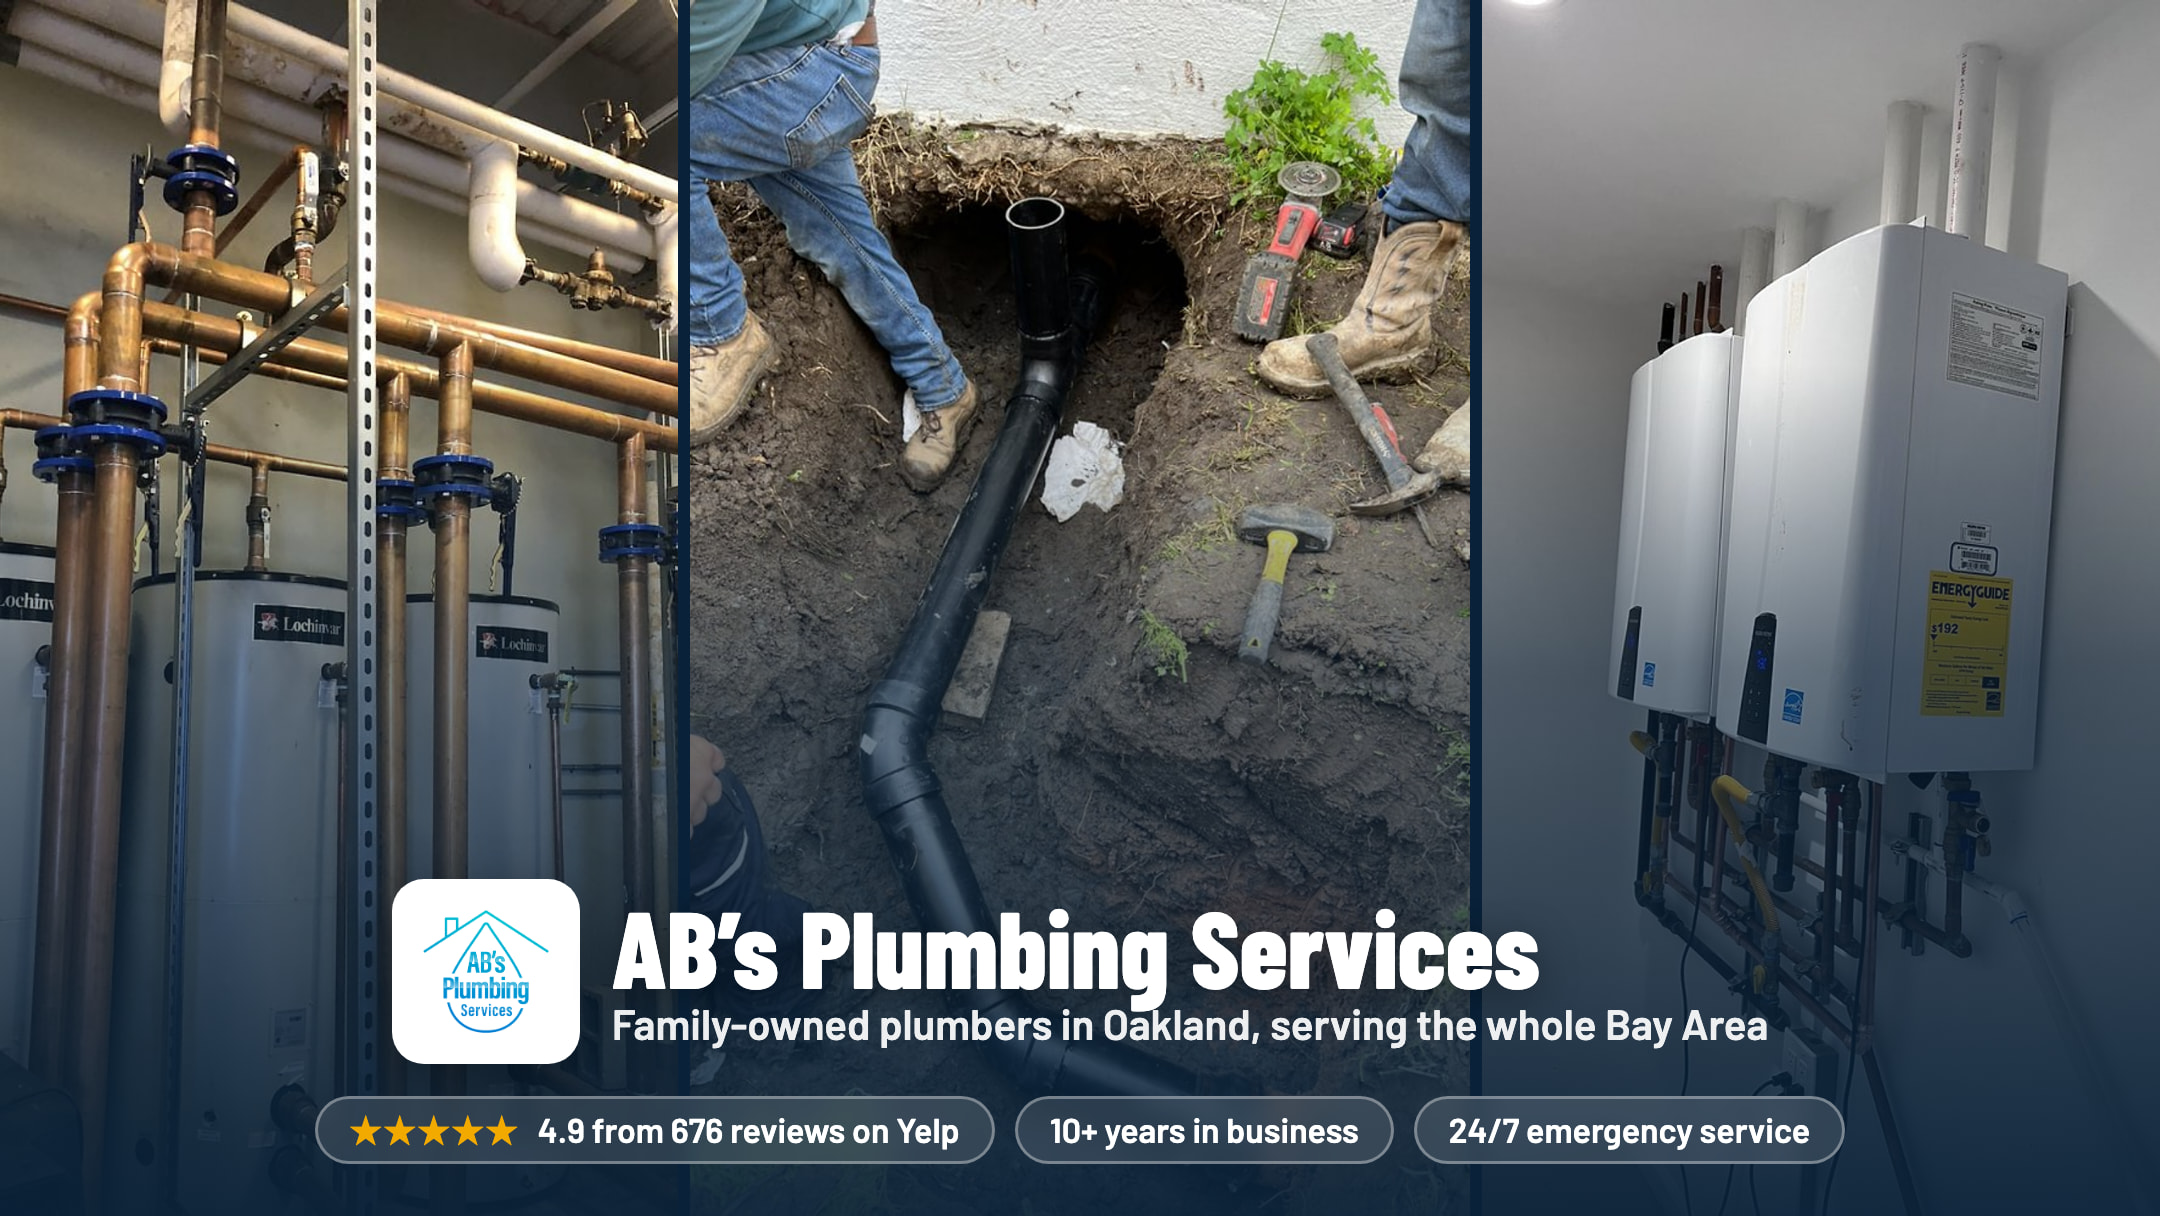
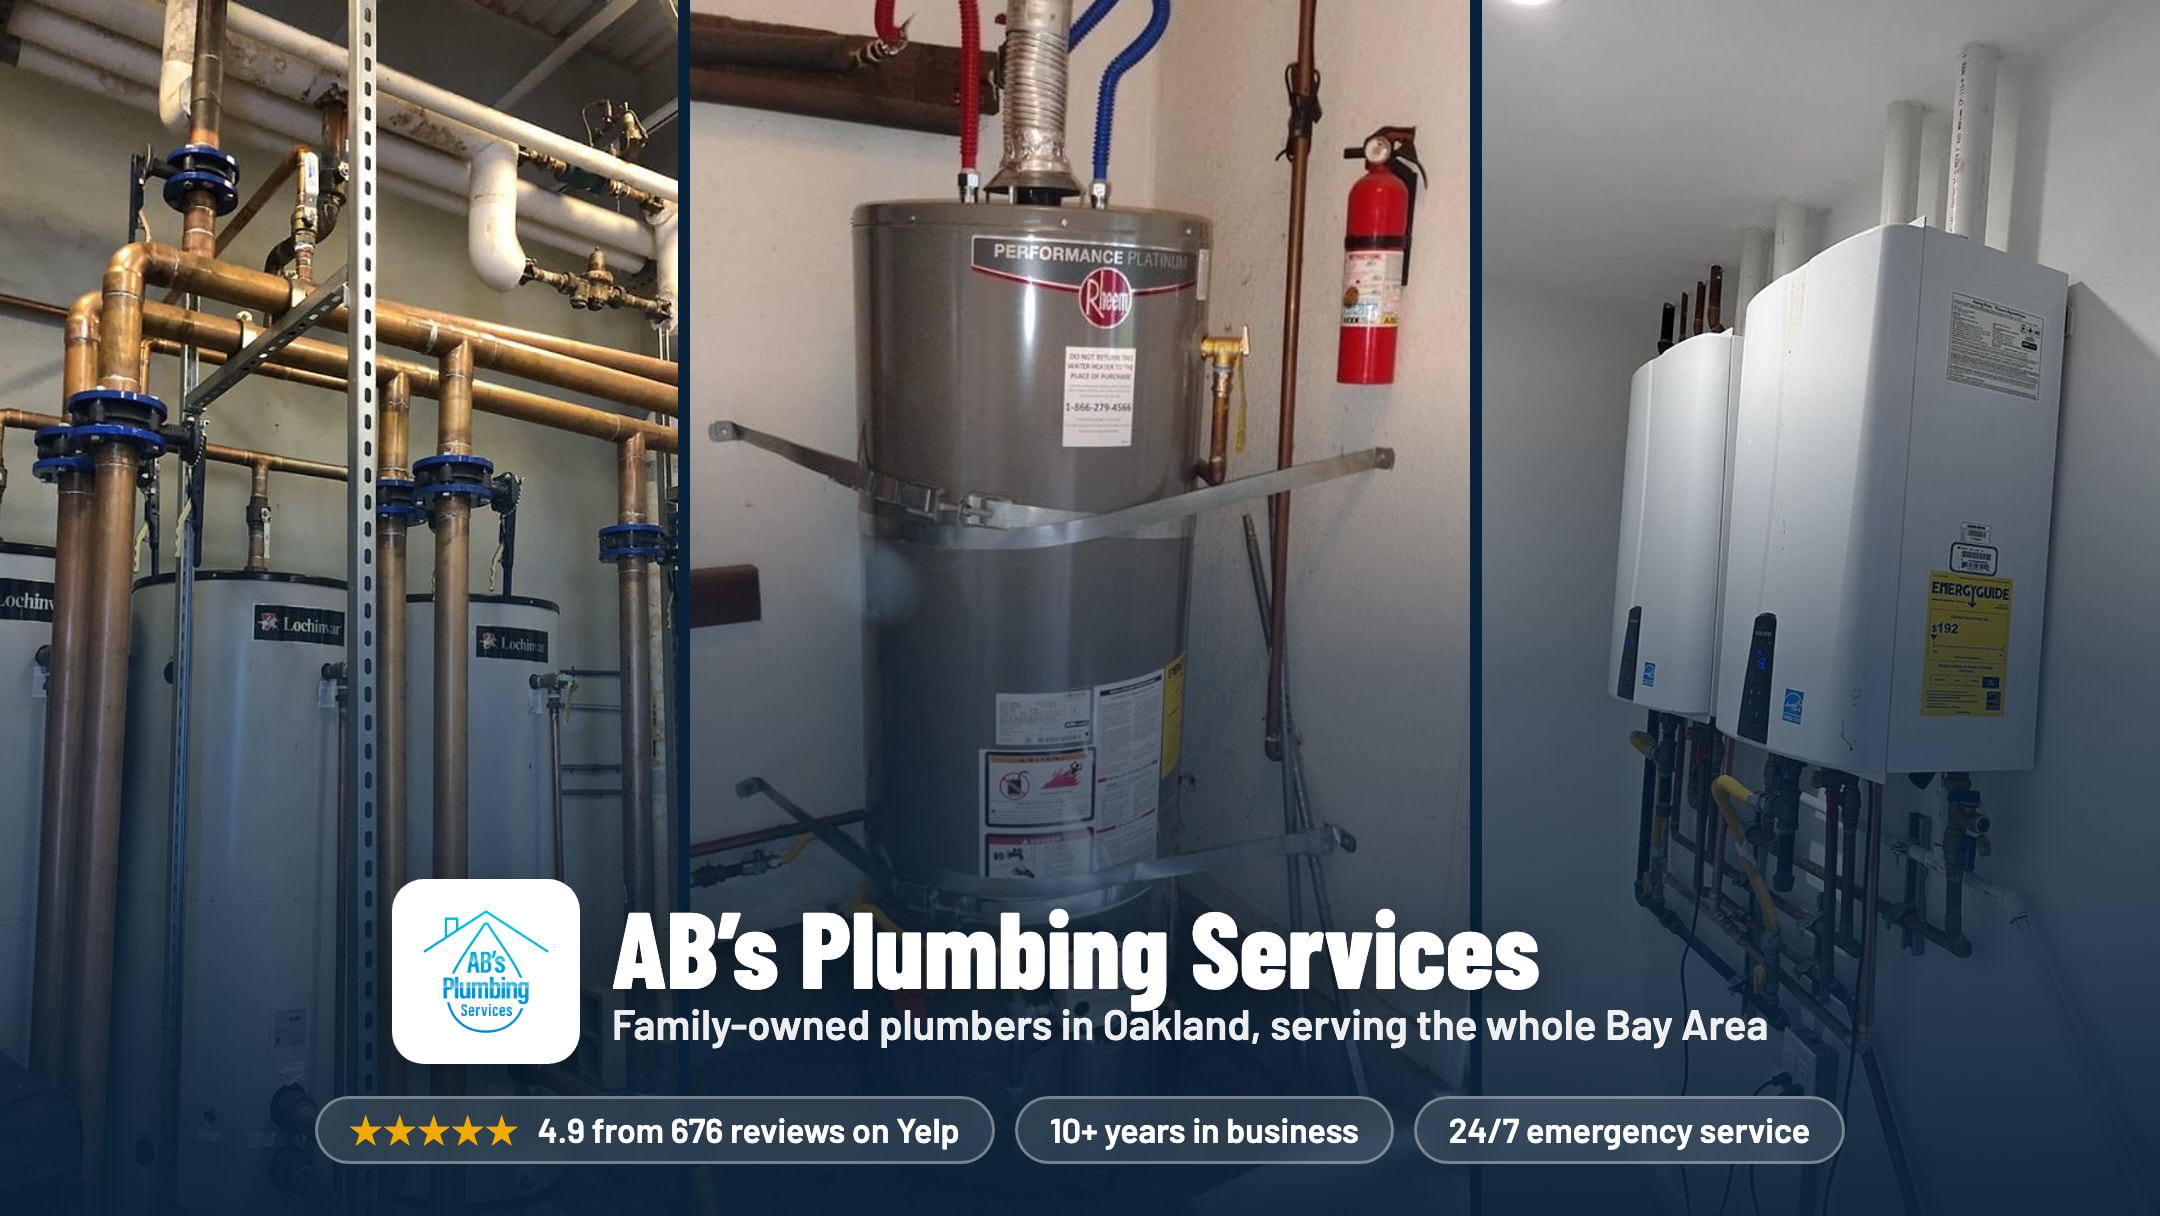
GBP cover: Rheem water heater install in the center panel
Claude-Session: https://claude.ai/code/session_011v2MkKNfKAuU7ZPEyXpDVC

diff --git a/brand-assets/google-business/src/cover.html b/brand-assets/google-business/src/cover.html
@@ -23,7 +23,7 @@
 <body>
   <div class="grid">
     <div style="background-image:url(../../../src/assets/work/commercial-water-heaters-copper.jpg);background-position:50% 40%"></div>
-    <div style="background-image:url(../../../src/assets/work/sewer-line-replacement-abs.jpg);background-position:50% 45%"></div>
+    <div style="background-image:url(../../../src/assets/work/rheem-50-gallon-water-heater.jpg);background-position:50% 40%"></div>
     <div style="background-image:url(../../../src/assets/work/two-tankless-water-heaters.jpg);background-position:50% 35%"></div>
   </div>
   <div id="brand" hidden>
